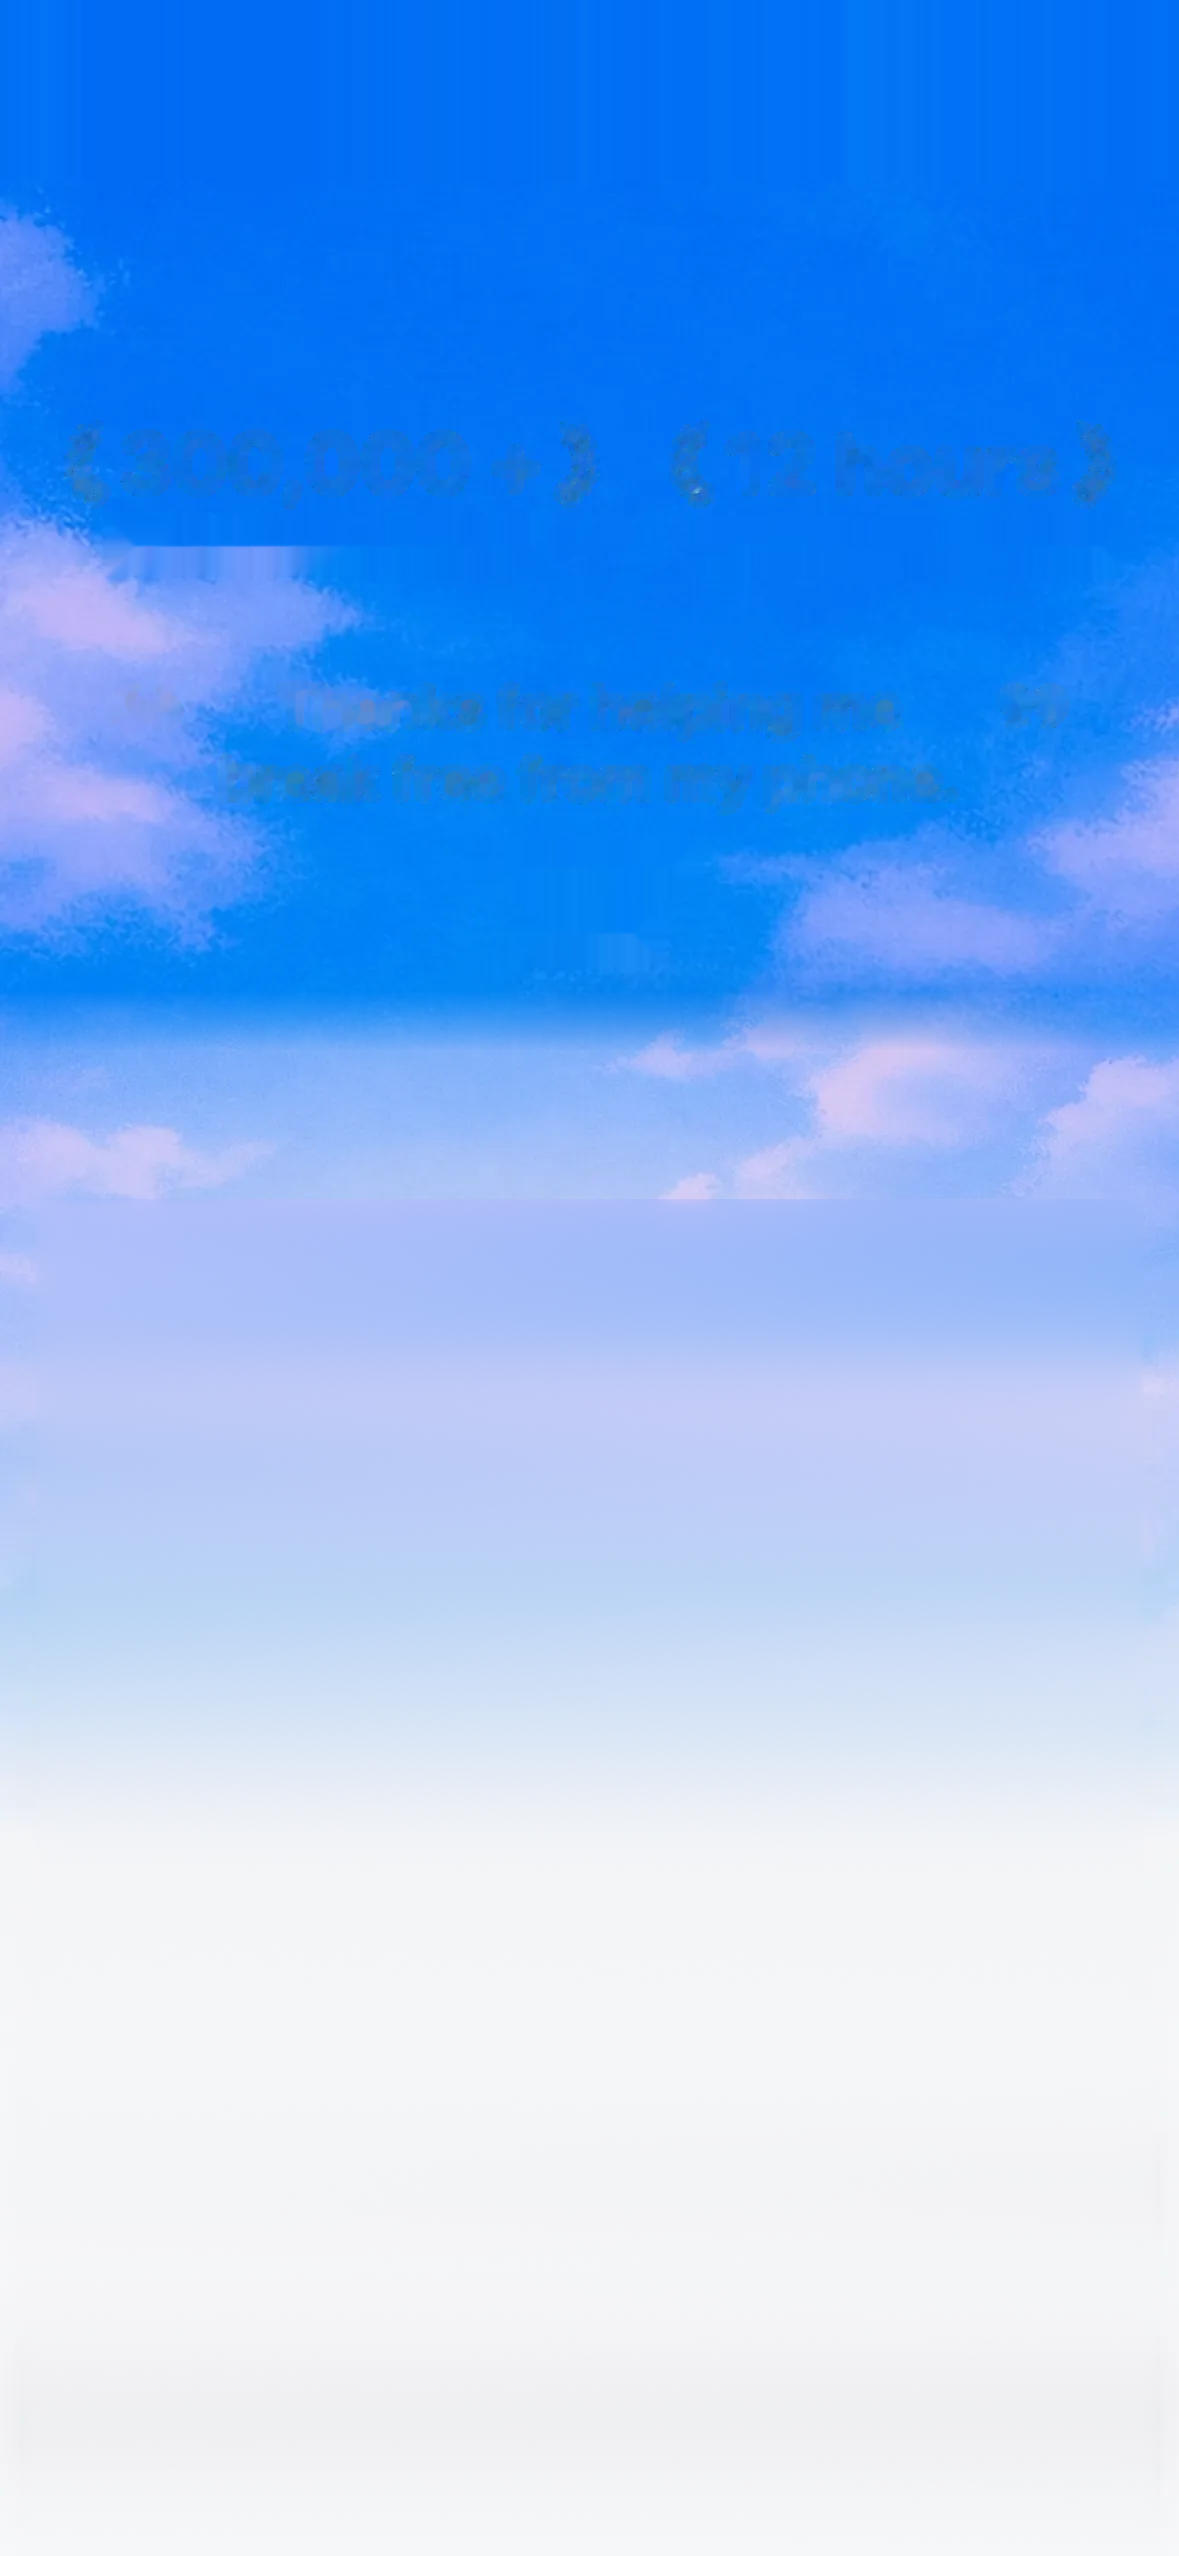
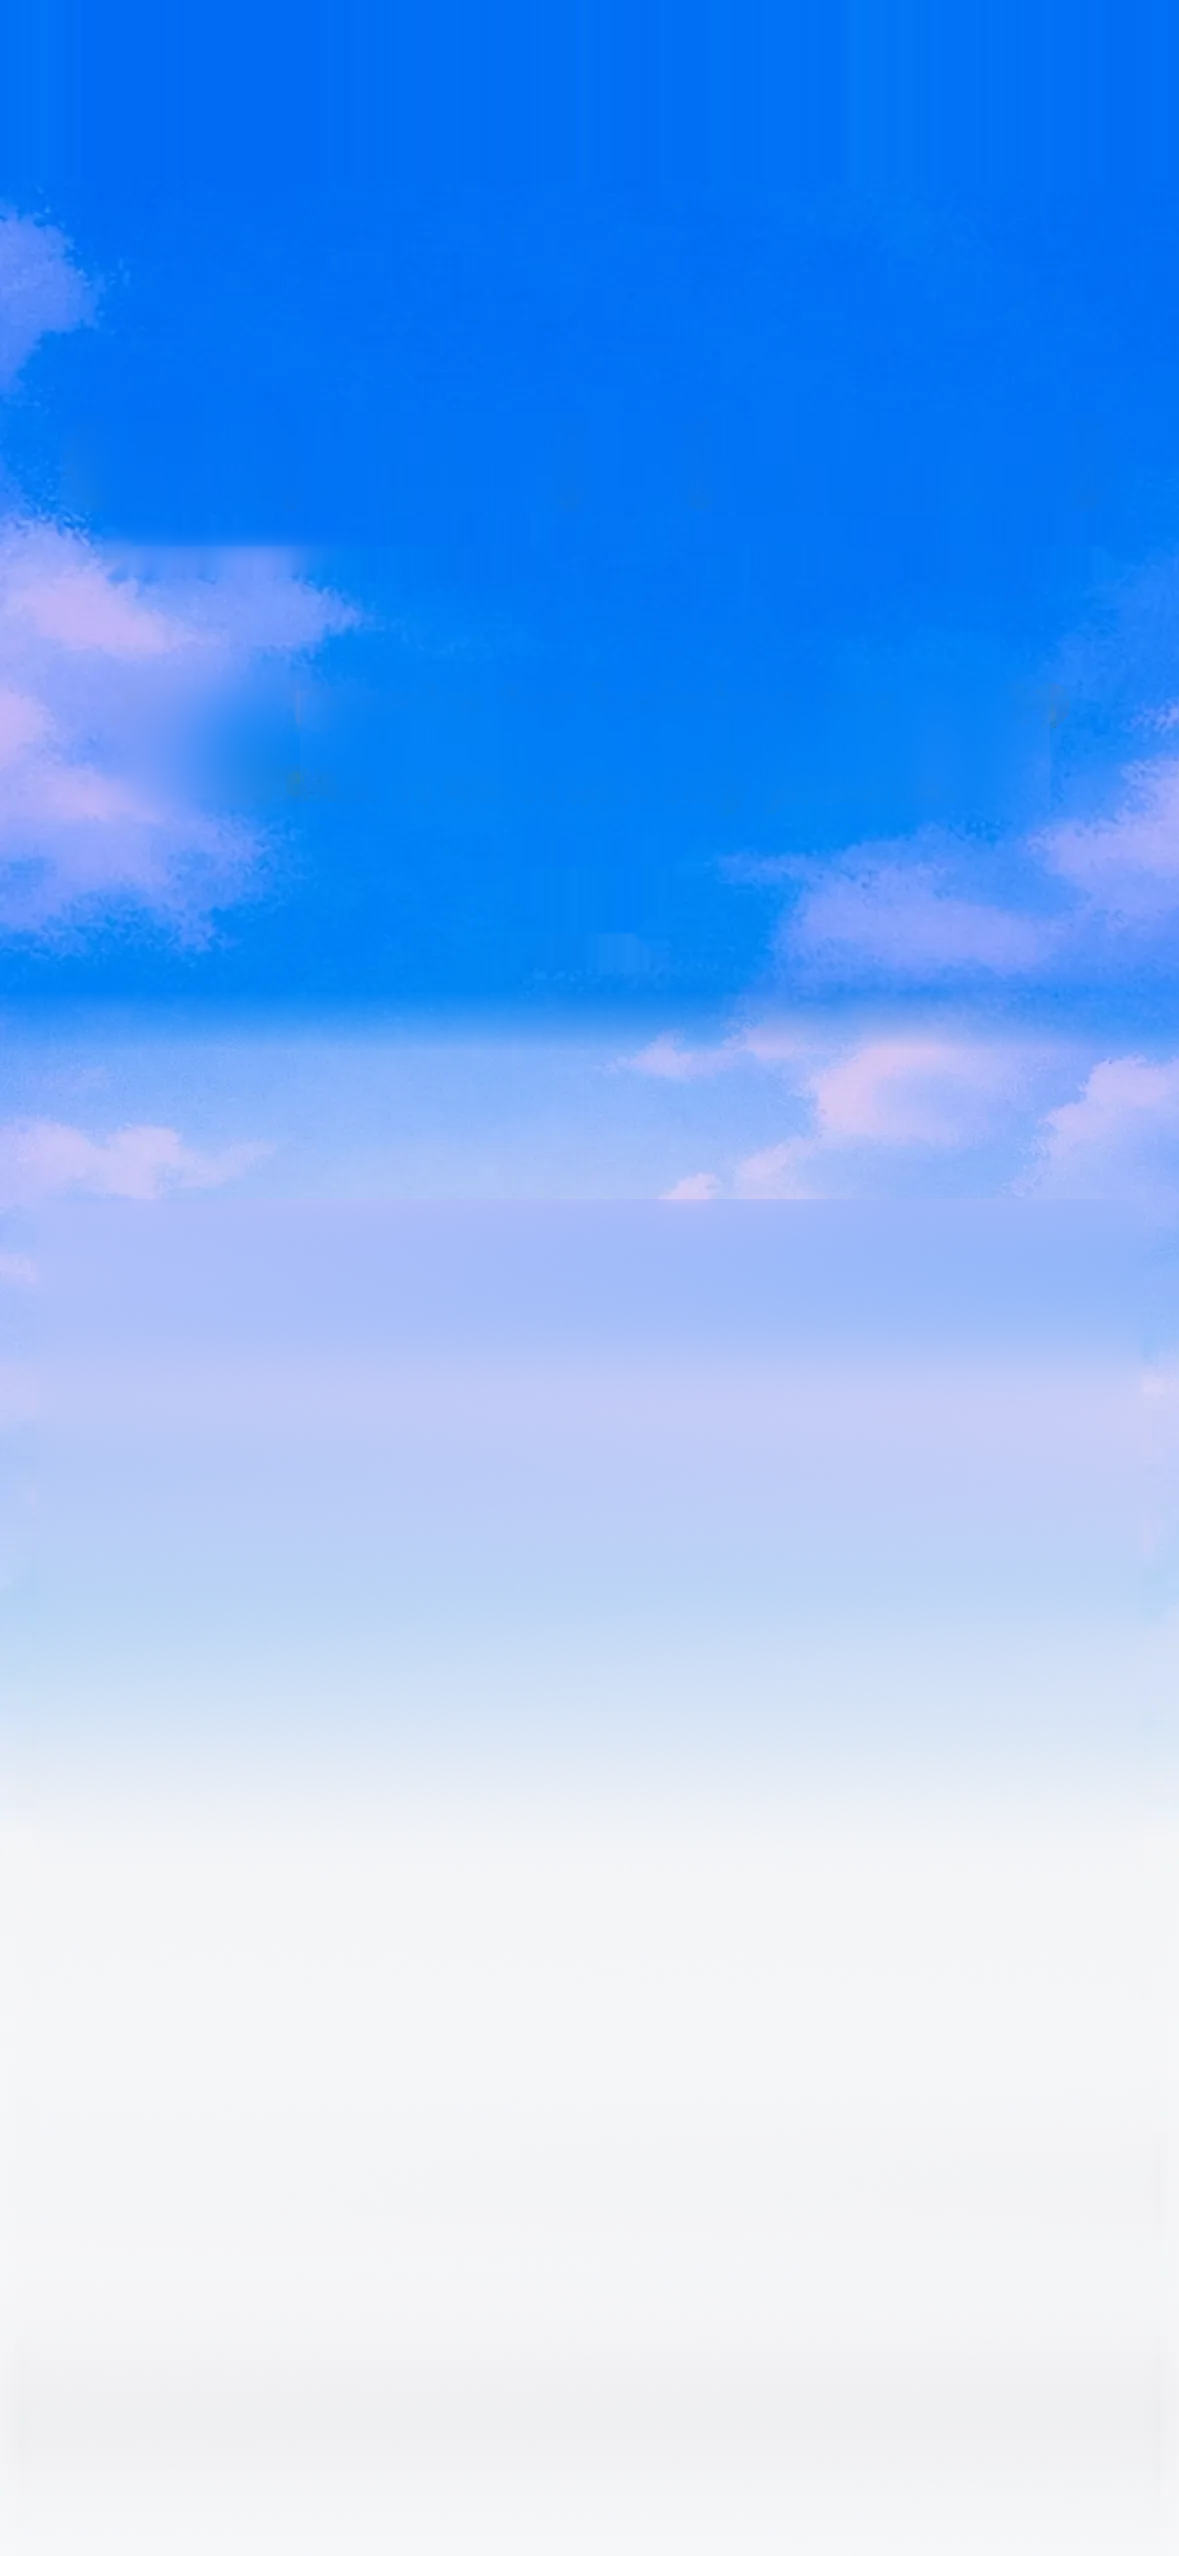
Экран 000: на небе убраны следы английского текста

diff --git a/tools/prepare-onboarding-art.py b/tools/prepare-onboarding-art.py
@@ -43,4 +43,23 @@ sky=Image.open(sky_source).convert('RGB')
 cut=round(sky.height*59/852)
 row=sky.crop((0,cut,sky.width,cut+1)).resize((sky.width,cut))
 sky.paste(row,(0,0))
+# В исходном небе остались тёмные следы английского текста и обрезанный край облака (координаты px 1179×2556).
+def soften(image,box,feather):
+    mask=Image.new('L',image.size)
+    ImageDraw.Draw(mask).rectangle(box,fill=255)
+    return mask.filter(ImageFilter.GaussianBlur(feather))
+# На чистом голубом участке каждый столбец заново протягивается между верхней и нижней границей.
+soft=sky.filter(ImageFilter.GaussianBlur(10))
+for box,feather in (((60,412,1125,512),12),((300,665,1050,822),30)):
+    x0,y0,x1,y1=box
+    field=sky.copy(); pixels=field.load(); source=soft.load()
+    for x in range(x0,x1):
+        top,bottom=source[x,y0],source[x,y1]
+        for y in range(y0,y1):
+            t=(y-y0)/(y1-y0)
+            pixels[x,y]=tuple(round(top[k]*(1-t)+bottom[k]*t) for k in range(3))
+    sky=Image.composite(field,sky,soften(sky,box,feather))
+# Над облаком протягивать нельзя: след только размывается, облако там и так мягкое.
+sky=Image.composite(sky.filter(ImageFilter.GaussianBlur(26)),sky,soften(sky,(118,672,290,812),14))
+sky=Image.composite(sky.filter(ImageFilter.GaussianBlur(11)),sky,soften(sky,(120,532,370,560),12))
 sky.save(root/'assets/art/onboarding/welcome-sky-reference.png')

diff --git a/docs/AUDIT_LOG.md b/docs/AUDIT_LOG.md
@@ -81,6 +81,7 @@
 - «Прил.» и «Приложения» в макете смешаны: 148 показывает полное слово, 44, 150, 158–163 — короткое. В приложении короткое везде.
 - Статусы 202 и 207 в макете «Предстоит», в приложении «Скоро»: условие в макете не выводится из состояния.
 - Вес 750 (009, 010) и 650 (024): в нативном System недоступны, оставлено 700.
+- Отклонение от макета по просьбе заказчика: на небе экрана 000 убраны следы английского текста и край облака, в HTML они есть (`tools/prepare-onboarding-art.py`).
 
 ## 2026-11-04 — сверка всех 267 состояний и правки
 
